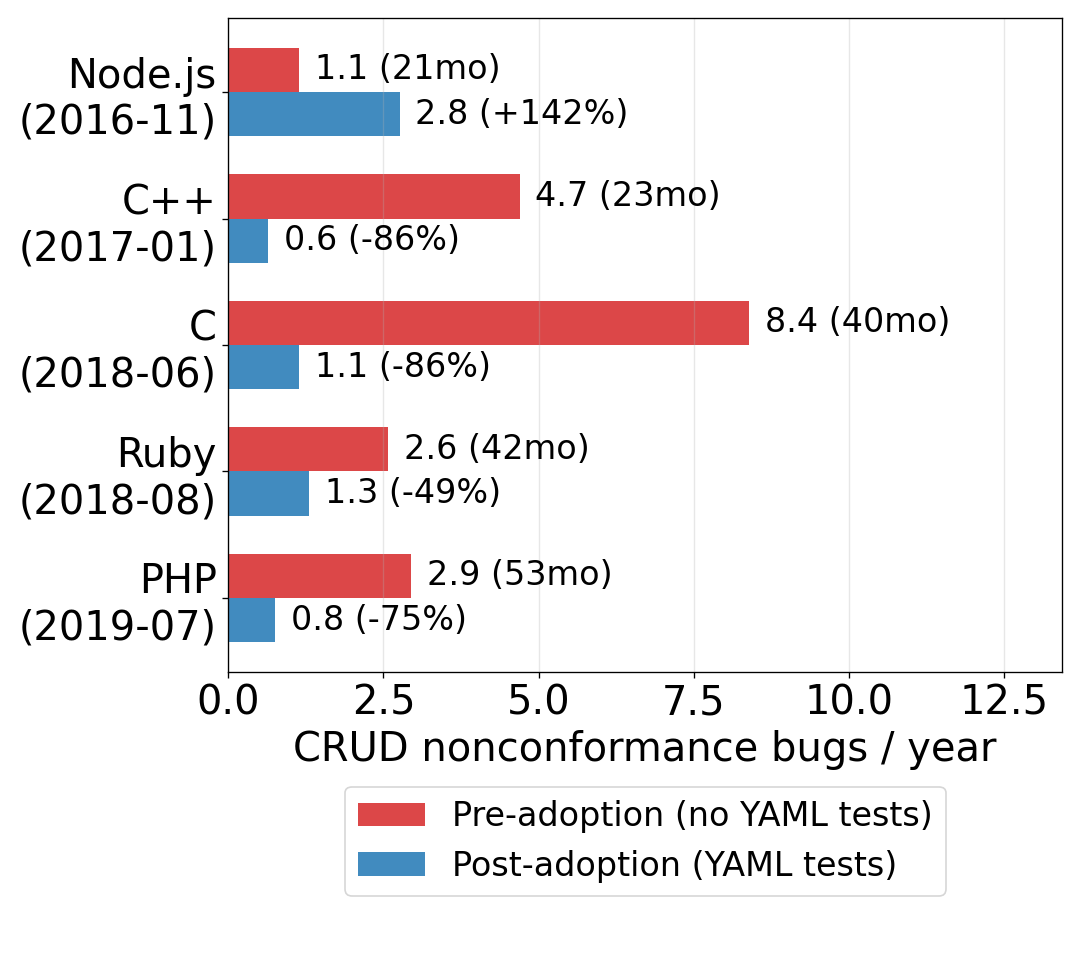
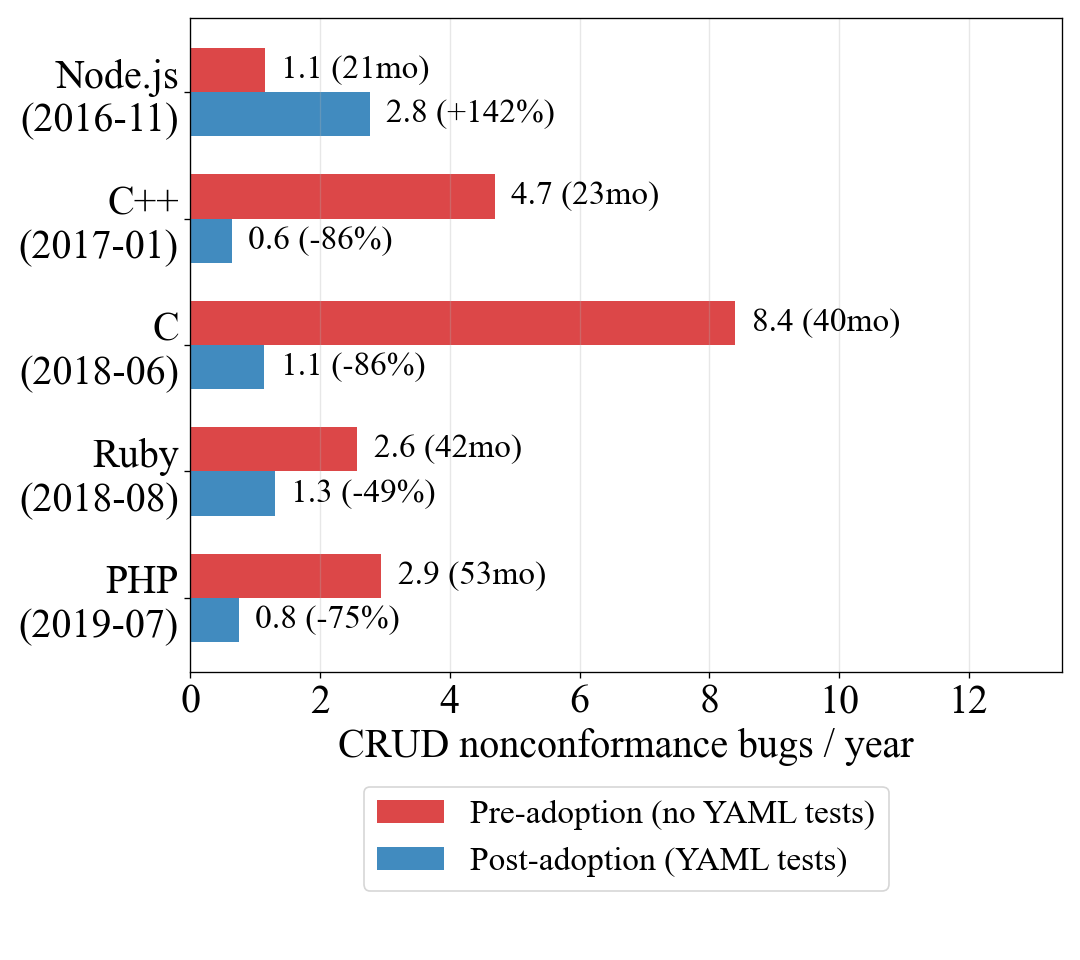
crud_late5: Times New Roman font

diff --git a/analysis/scripts/crud_analysis.py b/analysis/scripts/crud_analysis.py
@@ -205,6 +205,11 @@ def chart_late5(panel_by_driver):
     y = np.arange(len(drivers_ordered))
     height = 0.35
 
+    plt.rcParams.update({
+        "font.family": "serif",
+        "font.serif": ["Times New Roman"],
+        "pdf.fonttype": 42,
+    })
     fig, ax = plt.subplots(figsize=(9, 8))
     ax.barh(y + height / 2,
             [pre_rates[d] for d in drivers_ordered],